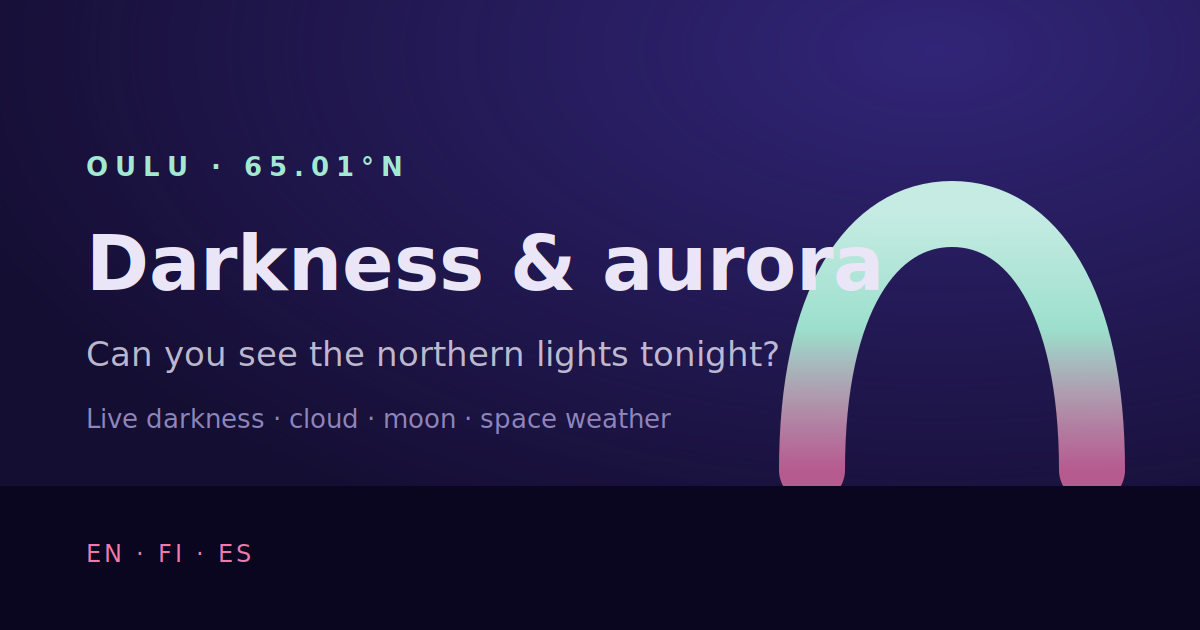
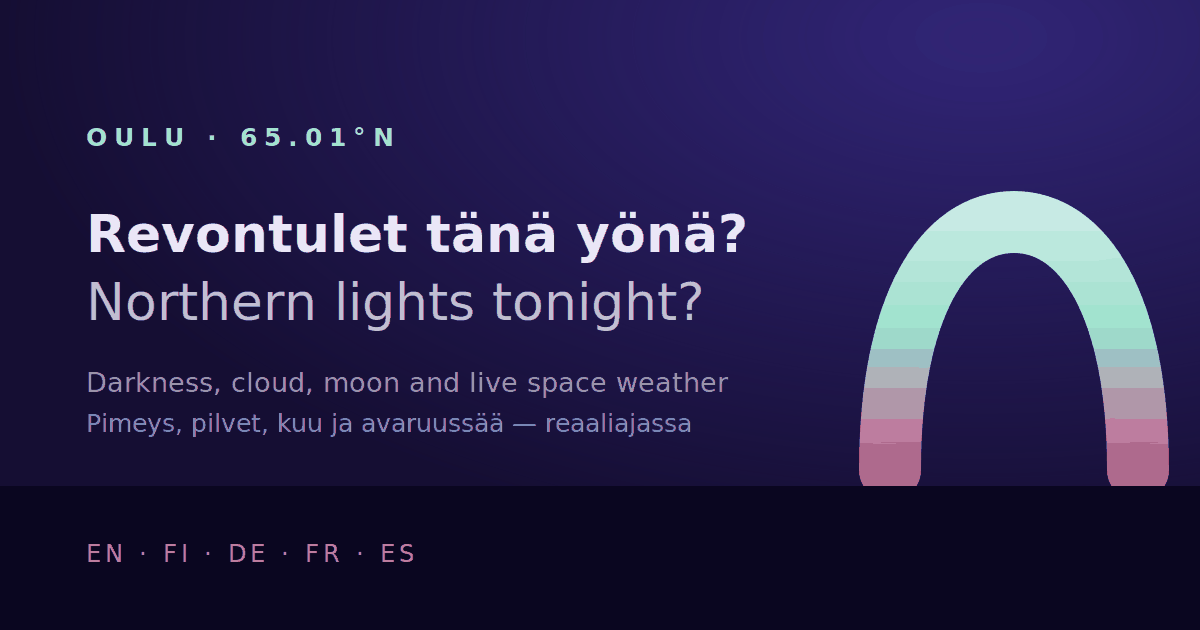
Add files via upload

diff --git a/index.html b/index.html
@@ -22,7 +22,7 @@
 <meta property="og:image" content="https://oulu-aurora.pages.dev/og.png">
 <meta property="og:image:width" content="1200">
 <meta property="og:image:height" content="630">
-<meta property="og:image:alt" content="An aurora arc over a dark horizon">
+<meta property="og:image:alt" content="An aurora arc over a dark horizon, with the question asked in Finnish and English">
 <meta property="og:locale" content="en_GB">
 <meta property="og:locale:alternate" content="fi_FI">
 <meta property="og:locale:alternate" content="de_DE">
@@ -67,6 +67,9 @@ body{
   -webkit-font-smoothing:antialiased; transition:background-color .3s,color .3s;
 }
 .wrap{max-width:900px;margin:0 auto;padding:22px 20px 56px}
+.noscript{max-width:56ch;margin:0 auto;padding:3rem 1.5rem;color:var(--ink)}
+.noscript h1{font-size:1.5rem;font-weight:500;line-height:1.3;margin:0 0 1.25rem}
+.noscript p{font-size:1rem;line-height:1.65;color:var(--muted);margin:0 0 1rem}
 
 .top{display:flex;justify-content:space-between;align-items:center;gap:12px;flex-wrap:wrap;
   border-bottom:1px solid var(--rule);padding-bottom:12px}
@@ -214,6 +217,20 @@ footer{margin-top:26px;display:flex;justify-content:space-between;align-items:ce
 </style>
 </head>
 <body>
+<noscript>
+  <div class="noscript">
+    <h1>Can you see the northern lights in Oulu tonight?</h1>
+    <p>This page answers that from four things: how dark the sky gets, how much cloud
+    there is, where the moon is, and live magnetic activity measured at the Finnish
+    Meteorological Institute's nearest magnetometer, about 100&nbsp;km away.</p>
+    <p>It needs JavaScript, because the positions of the sun and moon are calculated in
+    your browser rather than on a server — which is also why the darkness reading keeps
+    working when the network does not.</p>
+    <p>Aurora season in Oulu runs roughly from September to April. Between late April
+    and mid&#8209;August the sky never gets dark enough, whatever the sun is doing.</p>
+  </div>
+</noscript>
+
 <div class="wrap">
 
   <div class="top">
@@ -227,11 +244,11 @@ footer{margin-top:26px;display:flex;justify-content:space-between;align-items:ce
         <option value="fr">Français</option>
         <option value="es">Español</option>
       </select>
-      <div class="seg"><button id="mode" aria-pressed="false" title="Night mode">◑</button></div>
+      <div class="seg"><button id="mode" aria-pressed="false">◑</button></div>
     </div>
   </div>
 
-  <section class="verdict">
+  <section class="verdict" aria-live="polite">
     <p class="eyebrow" id="t-eyebrow">Aurora tonight</p>
     <h1 class="answer" id="answer">Checking…</h1>
     <p class="because" id="because">—</p>
@@ -393,6 +410,7 @@ en:{ locale:'en-GB',
  bGoNow:(a,c,d)=>`${a} over Oulu — this is a rare one. ${c}, ${d}, and overhead rather than on the horizon.`,
  bCloudWay:(a,c)=>`${a} above the clouds, but ${c}. Worth watching for gaps.`,
  bestFrom:x=>` Best from ${x}.`,
+ nightMode:'Night mode',
  spotList:[
   {n:"Nallikari",d:"3.3 km north-west",t:"Sandy beach on the open sea. Face north over the water — the widest unobstructed northern horizon close to town, with the lighthouse in silhouette."},
   {n:"Hollihaka",d:"by the centre",t:"A park in town, right by the water. City glow is real, but it is the easiest option on foot if a display is already underway."},
@@ -489,6 +507,7 @@ fi:{ locale:'fi-FI',
  bGoNow:(a,c,d)=>`${a} Oulun yllä — tämä on harvinaista. ${c}, ${d}, ja pään päällä eikä horisontissa.`,
  bCloudWay:(a,c)=>`${a} pilvien yläpuolella, mutta ${c}. Kannattaa vahtia aukkoja.`,
  bestFrom:x=>` Parhaiten klo ${x} alkaen.`,
+ nightMode:'Yötila',
  spotList:[
   {n:"Nallikari",d:"3,3 km luoteeseen",t:"Hiekkaranta avomeren äärellä. Katso pohjoiseen veden yli — laajin esteetön pohjoinen taivaanranta lähellä keskustaa, majakka siluettina."},
   {n:"Hollihaka",d:"keskustassa",t:"Puisto aivan keskustassa, veden äärellä. Kaupungin valot haittaavat, mutta kävellen helpoin vaihtoehto jos revontulet ovat jo käynnissä."},
@@ -586,6 +605,7 @@ es:{ locale:'es-ES',
  bGoNow:(a,c,d)=>`${a} sobre Oulu: esto es raro. ${c}, ${d}, y en el cenit en vez de en el horizonte.`,
  bCloudWay:(a,c)=>`${a} por encima de las nubes, pero ${c}. Vigila los claros.`,
  bestFrom:x=>` Mejor a partir de las ${x}.`,
+ nightMode:'Modo nocturno',
  spotList:[
   {n:"Nallikari",d:"3,3 km al noroeste",t:"Playa de arena frente al mar abierto. Mira al norte sobre el agua: el horizonte norte más despejado cerca de la ciudad, con el faro recortado al fondo."},
   {n:"Hollihaka",d:"en el centro",t:"Un parque en pleno centro, junto al agua. Hay contaminación lumínica, pero es la opción más fácil a pie si la aurora ya ha empezado."},
@@ -672,6 +692,7 @@ de:{ locale:'de-DE',
  bGoNow:(a,c,d)=>`${a} über Oulu — das ist selten. ${c}, ${d}, und im Zenit statt am Horizont.`,
  bCloudWay:(a,c)=>`${a} über den Wolken, aber ${c}. Auf Lücken achten.`,
  bestFrom:x=>` Am besten ab ${x}.`,
+ nightMode:'Nachtmodus',
  spotList:[
   {n:"Nallikari",d:"3,3 km nordwestlich",t:"Sandstrand am offenen Meer. Blick nach Norden über das Wasser — der weiteste freie Nordhorizont in Stadtnähe, mit dem Leuchtturm als Silhouette."},
   {n:"Hollihaka",d:"im Zentrum",t:"Ein Park mitten in der Stadt, direkt am Wasser. Stadtlicht ist da, aber es ist die einfachste Option zu Fuß, wenn das Nordlicht schon läuft."},
@@ -768,6 +789,7 @@ fr:{ locale:'fr-FR',
  bGoNow:(a,c,d)=>`${a} au-dessus d’Oulu — c’est rare. ${c}, ${d}, et au zénith plutôt que sur l’horizon.`,
  bCloudWay:(a,c)=>`${a} au-dessus des nuages, mais ${c}. Guette les trouées.`,
  bestFrom:x=>` Au mieux à partir de ${x}.`,
+ nightMode:'Mode nuit',
  spotList:[
   {n:"Nallikari",d:"3,3 km au nord-ouest",t:"Plage de sable face à la mer ouverte. Regarde vers le nord au-dessus de l’eau : l’horizon nord le plus dégagé près de la ville, avec le phare en silhouette."},
   {n:"Hollihaka",d:"dans le centre",t:"Un parc en plein centre, au bord de l’eau. La lumière urbaine est bien là, mais c’est l’option la plus simple à pied si l’aurore a déjà commencé."},
@@ -820,6 +842,10 @@ const SPOTGEO=[
  {lat:65.0673,lon:25.4710,pid:'ChIJg_2RvQEtgEYRz7e31CjkQAU'},
  {lat:65.0515,lon:25.4981,pid:'ChIJB57E8zwtgEYRUjx4xOGI0t4'}
 ];
+
+/* Raw API responses, kept so a language change re-renders rather than refetches.
+   Five language clicks used to mean ten network requests for identical data. */
+let RAW = { wx: null, sw: null };
 
 let LANG='en', MODE='day';
 try{ const l=localStorage.getItem('oulu-lang'); if(l&&STR[l]) LANG=l;
@@ -930,7 +956,10 @@ function draw(pts,low,win){
     const i=Math.min(m/6,pts.length-1);
     const an = j===0?'start' : j===arr.length-1?'end' : 'middle';
     s+=`<text class="axis" x="${x(i)}" y="${H-6}" text-anchor="${an}">${fmtT(pts[i].t)}</text>`; });
-  document.getElementById('chart').innerHTML=s;
+  const cv=document.getElementById('chart');
+  cv.innerHTML=s;
+  cv.setAttribute('aria-label', t('chartTitle')+': '+tierOf(low.el).name
+    +', '+low.el.toFixed(1)+'° '+fmtT(low.t)+'.');
 }
 
 
@@ -976,7 +1005,9 @@ function drawYear(now){
     if(nar) lab=lab.slice(0,3);
     s+=`<text class="axis" x="${(L+md0*bw+bw*(nar?28:14)).toFixed(1)}" y="${H-7}" text-anchor="middle">${lab}</text>`;
   }
-  document.getElementById('year').innerHTML=s;
+  const ys=document.getElementById('year');
+  ys.innerHTML=s;
+  ys.setAttribute('aria-label', t('season')+': '+lab+'.');
 }
 
 /* ==========  CAMERA  ========== */
@@ -1082,6 +1113,8 @@ function drawSky(darkTier, r, kp, moon){
       +(a===0?' fill="var(--accent)"':'')+'>'+v[1]+'</text>'; });
   g+='<text class="axis" x="'+(W/2)+'" y="'+(H-3)+'" text-anchor="middle">'+t('skyFacing')+'</text>';
   svg.innerHTML=g;
+  svg.setAttribute('aria-label', t('skyTitle')+': '
+    + (band ? t('skyBand')+' '+band[0]+'–'+band[1]+'°' : t('skyTooLight')) + '.');
 }
 
 /* ==========  UI  ========== */
@@ -1131,7 +1164,10 @@ function paintStatic(){
     `<div class="tip-item">${ico(TIPICONS[i]||'clock')}<b>${x.h}</b><p>${x.p}</p></div>`).join('');
   set('t-gloss',t('gloss')); set('t-status',t('status')); set('refresh',t('refresh'));
   document.getElementById('lang').value=LANG;
-  document.getElementById('mode').setAttribute('aria-pressed',MODE==='night');
+  const mb=document.getElementById('mode');
+  mb.setAttribute('aria-pressed',MODE==='night');
+  mb.setAttribute('aria-label',t('nightMode'));
+  mb.setAttribute('title',t('nightMode'));
   document.getElementById('spotlist').innerHTML=STR[LANG].spotList.map((s,i)=>{
     const g=SPOTGEO[i]; if(!g) return '';
     const url=`https://www.google.com/maps/search/?api=1&query=${g.lat},${g.lon}&query_place_id=${g.pid}`;
@@ -1150,7 +1186,7 @@ function stamp(){
 }
 
 /* ==========  MAIN  ========== */
-async function run(){
+async function run(refetch = true){
   feeds.length=0; paintStatic();
   const now=new Date();
   document.getElementById('today').textContent=fmtD(now);
@@ -1174,11 +1210,15 @@ async function run(){
 
   let cloud=null, hourly=null;
   try{
-    const r=await fetch(`https://api.open-meteo.com/v1/forecast?latitude=${LAT}&longitude=${LON}`
-      +`&current=temperature_2m&hourly=cloud_cover,precipitation,precipitation_probability&daily=sunrise,sunset,daylight_duration`
-      +`&timezone=Europe%2FHelsinki&past_days=7&forecast_days=4`);
-    if(!r.ok) throw new Error('HTTP '+r.status);
-    const d=await r.json();
+    let d;
+    if(!refetch && RAW.wx) d = RAW.wx;
+    else {
+      const r=await fetch(`https://api.open-meteo.com/v1/forecast?latitude=${LAT}&longitude=${LON}`
+        +`&current=temperature_2m&hourly=cloud_cover,precipitation,precipitation_probability&daily=sunrise,sunset,daylight_duration`
+        +`&timezone=Europe%2FHelsinki&past_days=7&forecast_days=4`);
+      if(!r.ok) throw new Error('HTTP '+r.status);
+      d = await r.json(); RAW.wx = d;
+    }
     const omOff=(d.utc_offset_seconds||0)*1000;
     const omDate=str=>new Date(Date.parse(str+'Z')-omOff);
     hourly=d.hourly; hourly.t=hourly.time.map(omDate);
@@ -1231,8 +1271,13 @@ async function run(){
 
   let kp=null,bz=null,fc=[],local=null;
   try{
-    const r=await fetch('/api/spacewx'); const d=await r.json();
-    if(!r.ok) throw new Error((d.notes&&d.notes.join('; '))||('HTTP '+r.status));
+    let d;
+    if(!refetch && RAW.sw) d = RAW.sw;
+    else {
+      const r=await fetch('/api/spacewx'); d=await r.json();
+      if(!r.ok) throw new Error((d.notes&&d.notes.join('; '))||('HTTP '+r.status));
+      RAW.sw = d;
+    }
     kp=d.peak!=null?d.peak:d.current; bz=d.bz; fc=d.forecast||[]; local=d.local||null;
     if(kp==null && !local) throw new Error('no data');
     const lr = local?local.best.r:null;              /* provisional bands */
@@ -1356,7 +1401,7 @@ async function run(){
   lastRun=Date.now(); stamp();
 }
 
-function setLang(l){ LANG=l; try{localStorage.setItem('oulu-lang',l);}catch(e){} run(); }
+function setLang(l){ LANG=l; try{localStorage.setItem('oulu-lang',l);}catch(e){} run(false); }
 document.getElementById('lang').addEventListener('change',e=>setLang(e.target.value));
 document.getElementById('mode').addEventListener('click',()=>{
   MODE=MODE==='night'?'day':'night';
